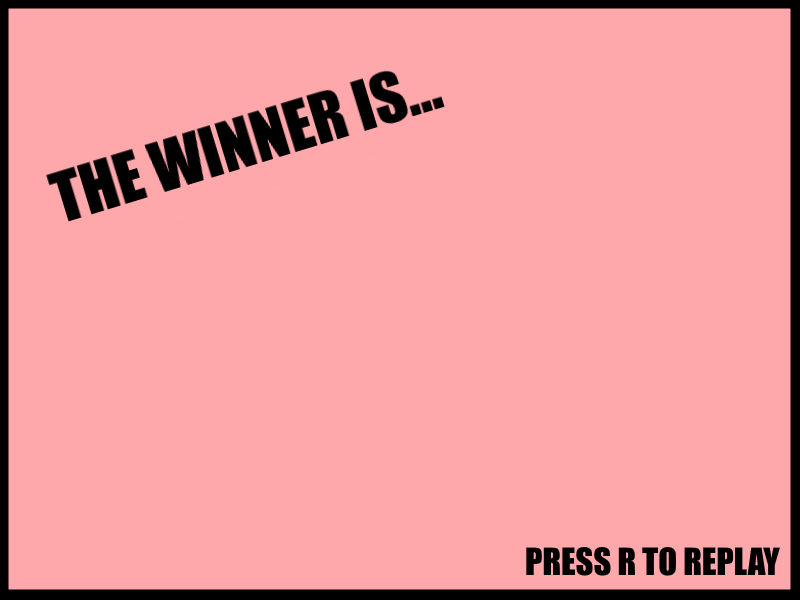
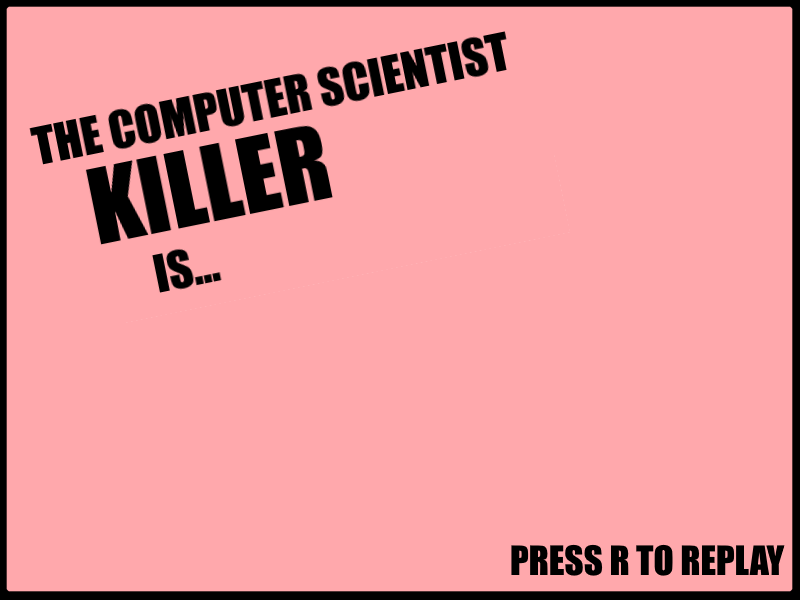
merge + new end screen

Changed region(s): [[0.0, 0.0, 1.0, 0.99], [0.1875, 0.42, 0.2812, 0.48]]

diff --git a/game.js b/game.js
@@ -33,6 +33,7 @@ var justTinted1=false, justTinted2=false;
 var platformVerticalY=300;
 var move_direction_V=1;
 var move_direction_H=1;
+var gameOver=false;
 
 function preload ()
 {
@@ -42,9 +43,11 @@ function preload ()
 	this.load.image('platform', 'assets/platform.png');
 	this.load.image('platformshort', 'assets/platformshort.png');
 	this.load.image('platformtiny', 'assets/platformtiny.png');
+	this.load.image('clound', 'assets/cloud.png');
 	this.load.image('ground', 'assets/ground.png');
 	this.load.image('bomb', 'assets/bomb.png');
 	this.load.image('health', 'assets/health.png');
+	this.load.image('end', 'assets/endscreen.png');
 		this.load.spritesheet('katana', 'assets/katana.png',
 		{ frameWidth: 26, frameHeight: 26 }
 	);
@@ -78,7 +81,7 @@ function create ()
 
   //  Now let's create some platforms
 	platforms.create(400, 599, 'platformshort');//verical
-	platforms.create(700, 350, 'platformshort');//horisontal
+	platforms.create(700, 350, 'clound');//horisontal
     platforms.create(-20, 500, 'platform');
 	platforms.create(-20, 250, 'platform');
     platforms.create(1000, 450, 'platformshort');
@@ -122,6 +125,18 @@ function create ()
 
 	healthPickup = this.physics.add.image((Math.round(Math.random() * 1400-20)+10), -50, 'health');
 	healthPickup.setMaxVelocity(0, 40)//makes it fall slower
+	
+	end = this.physics.add.image(700, 350, 'end');
+	end.setMaxVelocity(0,0);
+	end.setVisible(false);
+	
+	endKing = this.physics.add.image(700, 400, 'king').setScale(10);
+	endKing.setMaxVelocity(0,0);
+	endKing.setVisible(false);
+	
+	endLink = this.physics.add.image(700, 400, 'link').setScale(10);
+	endLink.setMaxVelocity(0,0);
+	endLink.setVisible(false);
 	
 	this.physics.add.overlap(player, healthPickup, player1HPpickup, null, this);
 	this.physics.add.overlap(player2, healthPickup, player2HPpickup, null, this);
@@ -174,7 +189,7 @@ function create ()
 		key: 'strike',
 		frames: [ sa, sa, sa, sa, sa, sa, sa, sa, sa, sa, sa, sa, sa, sa, sa, sa, sa, sa, sa, sa, sa, { key: 'katana', frame: 0 }  ],
 		//frameRate: 1,
-		duration: 1500
+		duration: 1400
 		//nextTick: 10
 	});
 
@@ -199,7 +214,8 @@ function create ()
 	this.keyD = this.input.keyboard.addKey(Phaser.Input.Keyboard.KeyCodes.D);
 	this.keyEnter = this.input.keyboard.addKey(Phaser.Input.Keyboard.KeyCodes.ENTER);
 	this.keySpacebar = this.input.keyboard.addKey(Phaser.Input.Keyboard.KeyCodes.SPACE);
-
+	this.keyR = this.input.keyboard.addKey(Phaser.Input.Keyboard.KeyCodes.R);
+	
 	//Bullet
 	var Bullet = new Phaser.Class(
 	{
@@ -272,6 +288,19 @@ function create ()
 
 function update (time, delta)
 {
+	if(gameOver)
+	{
+		if (this.keyR.isDown)
+		{
+			gameOver=false
+			end.setVisible(false);
+			endLink.setVisible(false);
+			endKing.setVisible(false);
+			player1Respawn();
+			player2Respawn();
+		}
+		return 0;
+	}
 	
 	//flash red when hit 
 	if(player.isTinted && !justTinted1)
@@ -312,16 +341,28 @@ function update (time, delta)
 	platforms.getFirstNth(nth=2, visible=true).refreshBody();
 	
 	if(platforms.getFirstNth(nth=3, visible=true).x < 100)
-	{//too high up
+	{//too far left
 		move_direction_H= 1;
 	}
 	else if (platforms.getFirstNth(nth=3, visible=true).x > 1300)
-	{// too low
+	{// too right
 		move_direction_H= -1;
 	}
-	platforms.getFirstNth(nth=3, visible=true).setPosition(platforms.getFirstNth(nth=3, visible=true).x+move_direction_H, platforms.getFirstNth(nth=3, visible=true).y);
+	platforms.getFirstNth(nth=3, visible=true).setPosition(
+		platforms.getFirstNth(nth=3, visible=true).x+move_direction_H, 
+		(Math.sin(platforms.getFirstNth(nth=3, visible=true).x/20)*30+350));
+		//platforms.getFirstNth(nth=3, visible=true).y);
 	platforms.getFirstNth(nth=3, visible=true).x+=move_direction_H;
 	platforms.getFirstNth(nth=3, visible=true).refreshBody();
+	
+	//health bars
+	
+	//	rect = new Phaser.GameObjects.Rectangle(platforms.getFirstNth(nth=3, visible=true).x, platforms.getFirstNth(nth=3, visible=true).y, 300, 200, 0x0000ff);
+
+    //var graphics = this.add.graphics({ fillStyle: { color: 0x0000ff } });
+
+  //  graphics.fillRectShape(rect);
+	//rect.setPosition);
 	
 	//key inputs
 	if (this.keyA.isDown) {
@@ -548,7 +589,10 @@ function isAlive(who)
 		player.setVisible(false);
 		gun.setActive(false);
 		gun.setVisible(false);
-		player1Respawn();
+		
+		end.setVisible(true);
+		endLink.setVisible(true);
+		gameOver=true;		
 		}
 	}
 	else if(who==2)
@@ -559,14 +603,16 @@ function isAlive(who)
 		player2.setVisible(false);
 		gun2.setActive(false);
 		gun2.setVisible(false);
-		player2Respawn();
+		
+		end.setVisible(true);
+		endKing.setVisible(true);
+		gameOver=true;
 		}
 	}
 }
 
 function player1Respawn()
 {
-	
 	player.setPosition(1300,450);
 	player.setActive(true);
 	player.setVisible(true);
@@ -576,6 +622,7 @@ function player1Respawn()
 	player1HPinfo.setText('HP: 100/120');
 	player1HP = 100;
 	katana1.visible=0;
+	player.clearTint();
 }
 
 function player2Respawn()
@@ -589,6 +636,7 @@ function player2Respawn()
 	player2HPinfo.setText('HP: 100/120');
 	player2HP = 100;
 	katana2.visible=0;
+	player2.clearTint();
 }
 
 function hp(change, who)
